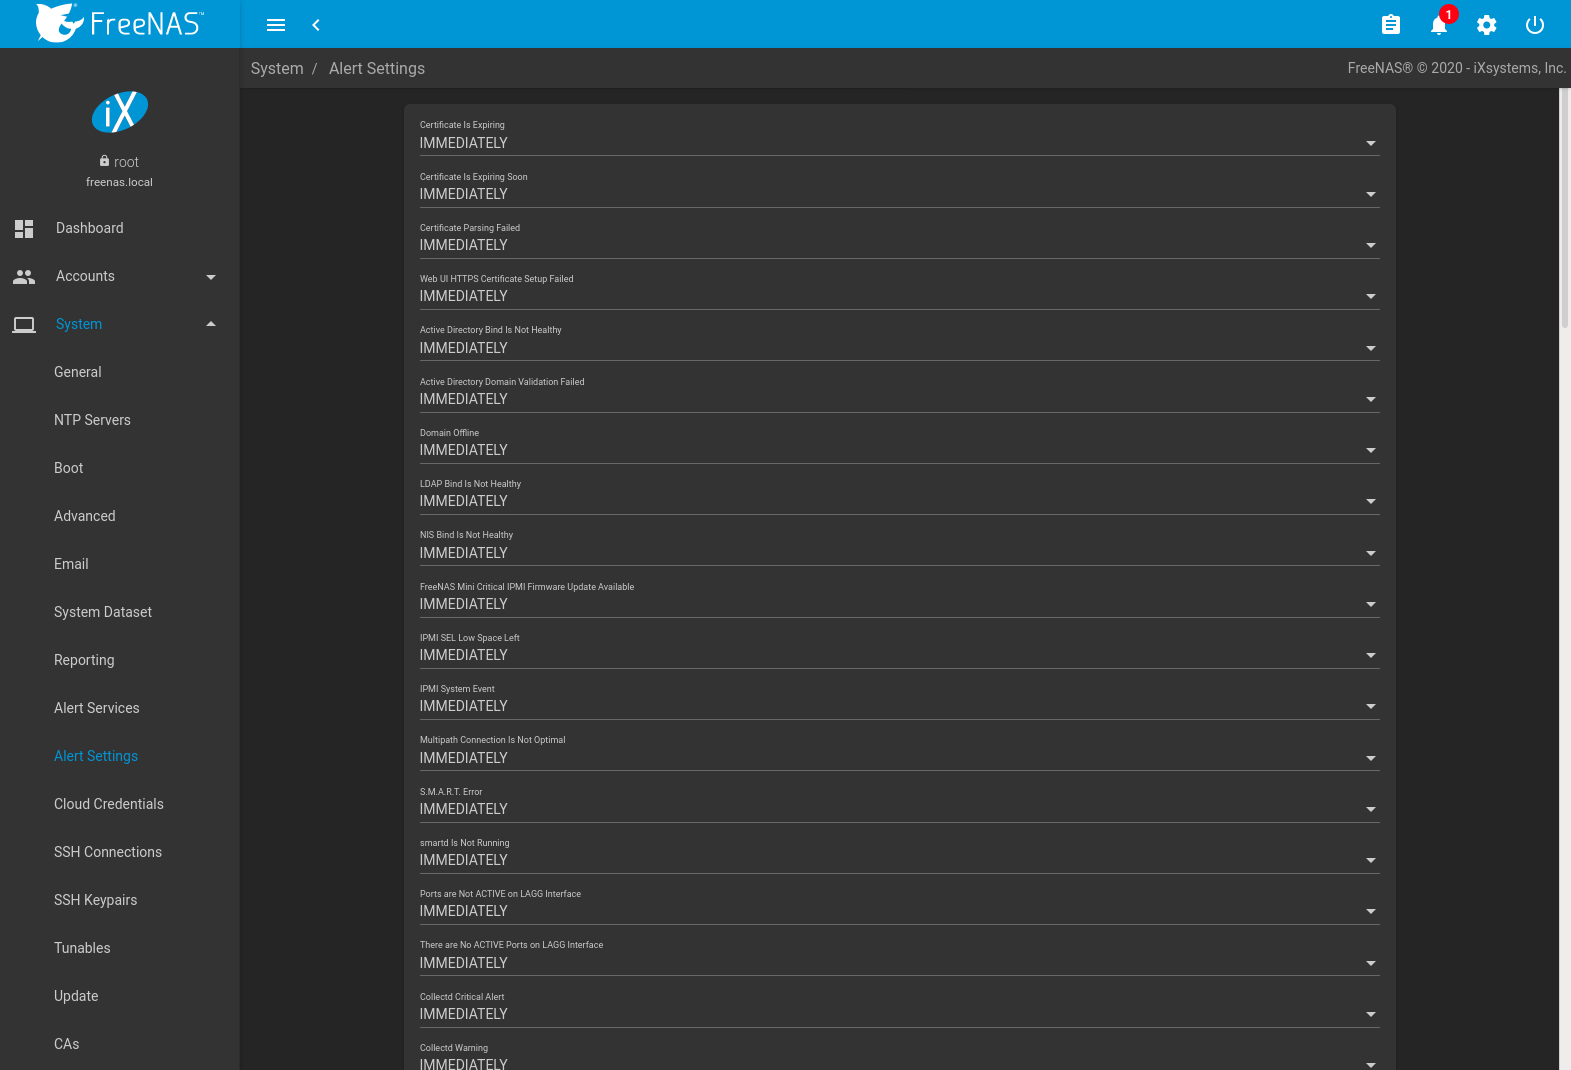
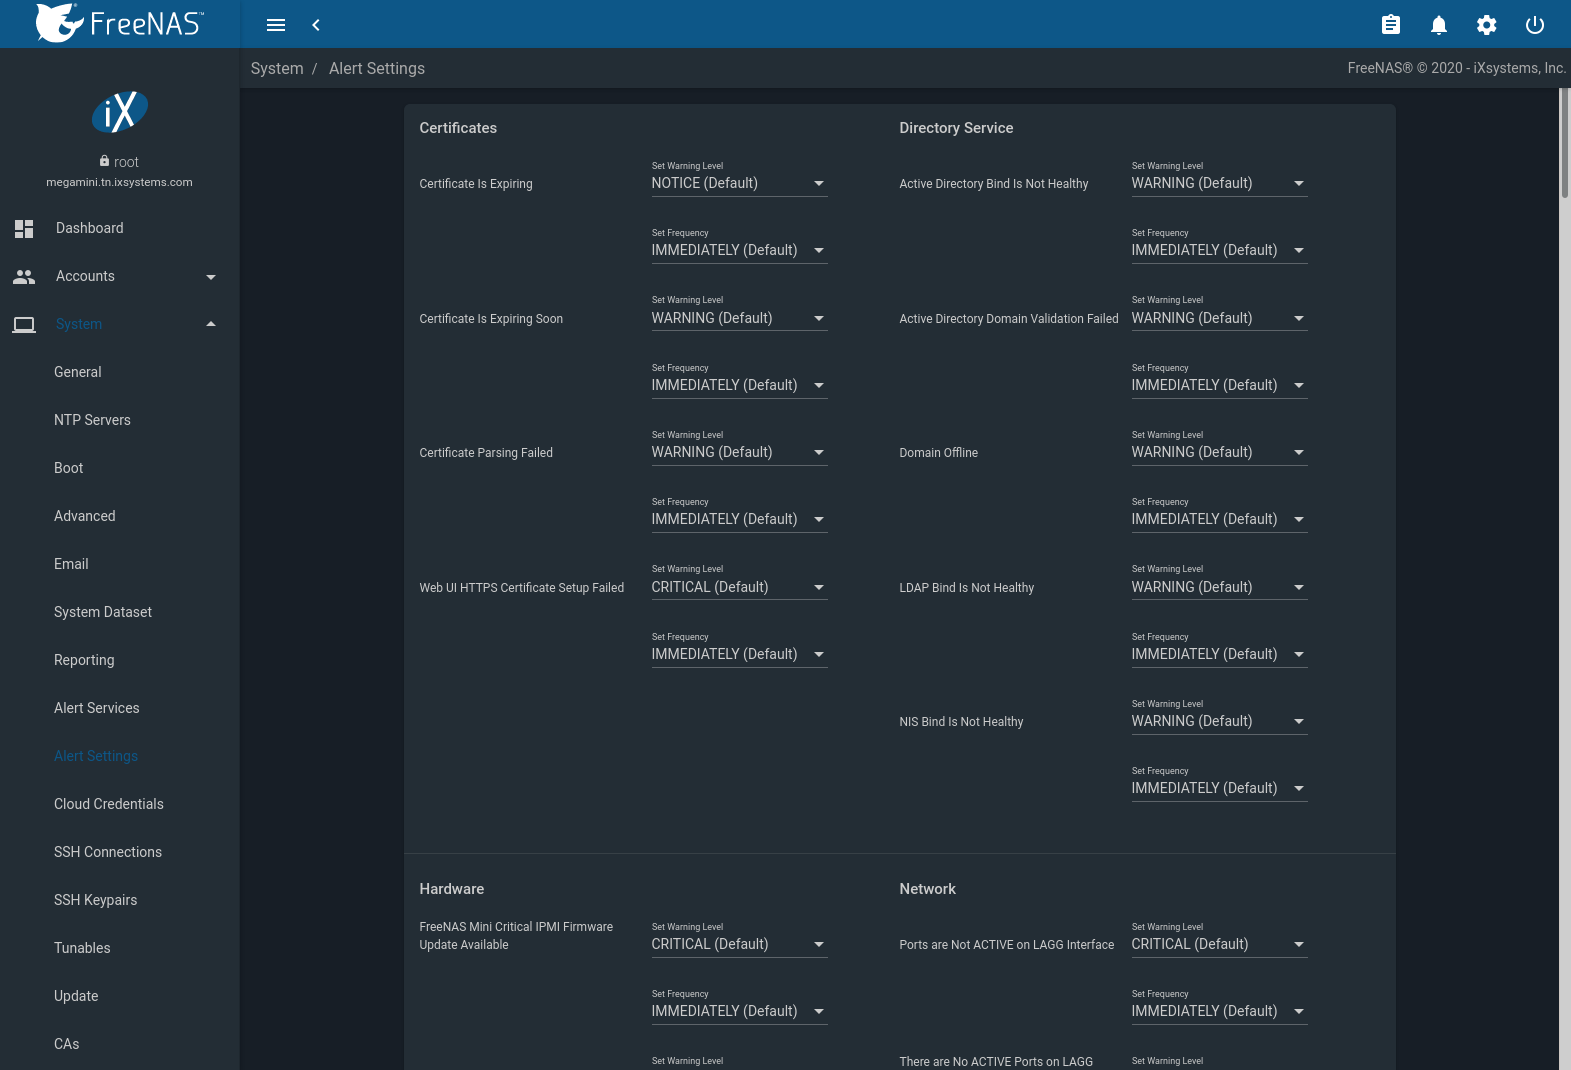
DOCS-220: Update Alert Settings docs HTML build test: no issues.

diff --git a/userguide/system.rst b/userguide/system.rst
@@ -1263,22 +1263,22 @@ temporarily, click |ui-options| and :guilabel:`Edit`, then unset the
 Alert Settings
 --------------
 
-:menuselection:`System --> Alert Settings` displays the notification
-frequency for each type of :ref:`Alert`. An example is shown in
-:numref:`Figure %s <alert_settings_fig>`.
+:menuselection:`System --> Alert Settings`
+has options to configure each %brand% :ref:`Alert`.
 
 .. _alert_settings_fig:
 
 .. figure:: %imgpath%/system-alert-settings.png
 
-   Configure Alert Notification Frequency
+   Alert Settings
 
 
-To change the notification frequency of an alert, click its drop-down
-menu and select *IMMEDIATELY*, *HOURLY*, *DAILY*, or *NEVER*.
+Alerts are grouped by |web-ui| feature or service monitor. To adjust the
+an alert level or notification frequency, choose an option from the
+drop-down menus and click :guilabel:`SAVE`.
 
-.. note:: To configure where alerts are sent, use
-   :ref:`Alert Services`.
+To configure where alert notifications are sent, use
+:ref:`Alert Services`.
 
 
 .. index:: Cloud Credentials
